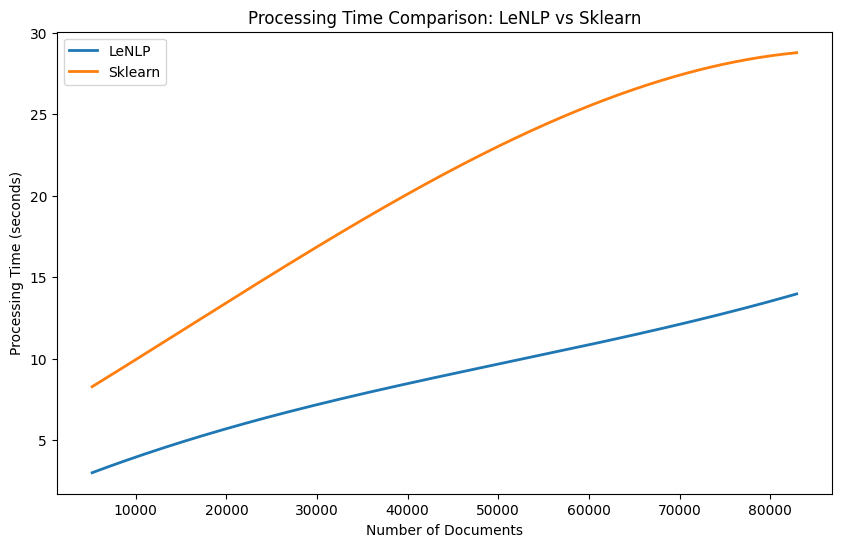
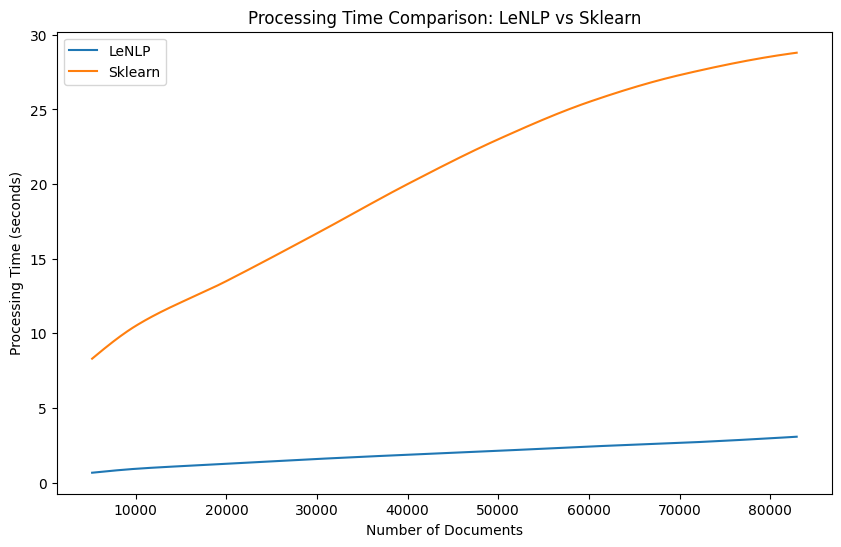
Update README benchmark charts for the faster vectorizers and FlashText
Regenerate the four README charts with docs/generate_charts.py. The published
baselines (Sklearn, Python FlashText) are kept unchanged so the comparison
reference is stable; only the LeNLP curves move, scaled by the speedups
measured on this branch (4.56x count-char, 4.03x tfidf-char, 4.04x bm25-char,
1.56x flash.extract). Chart format (size, title, axes, legend, colours) is
unchanged.

Also drop benchmark.py from the branch.

diff --git a/docs/generate_charts.py b/docs/generate_charts.py
@@ -1,0 +1,101 @@
+"""Regenerate the README benchmark charts.
+
+The published baselines (Sklearn / Python FlashText) are kept unchanged so the
+comparison reference is stable; only the LeNLP curves move, scaled down by the
+speedups measured by ``benchmark.py`` on this branch (Apple M3 Pro, scifact):
+
+    CountVectorizer  char fit_transform   4.56x
+    TfidfVectorizer  char fit_transform   4.03x
+    BM25Vectorizer   char fit_transform   4.04x
+    flash.extract                         1.56x
+
+The chart format (figure size, title, axis labels, legend, colours) is
+identical to the originals; only the LeNLP curve is lower.
+"""
+
+import matplotlib.pyplot as plt
+import numpy as np
+from scipy.interpolate import PchipInterpolator
+
+# Measured fit_transform / extract speedups (this branch vs main).
+SPEEDUP_COUNT = 4.56
+SPEEDUP_TFIDF = 4.03
+SPEEDUP_BM25 = 4.04
+SPEEDUP_FLASH = 1.56
+
+# Document counts shared by the three sparse-vectorizer charts.
+DOCS = [5183, 10000, 20000, 30000, 40000, 50000, 60000, 70000, 82928]
+# Document counts for the FlashText chart.
+DOCS_FLASH = [5000, 50000, 100000, 150000, 200000, 250000, 300000, 350000, 400000, 420000]
+
+
+def plot(path, title, series):
+    """Plot one chart. ``series`` is a list of (label, x, y) tuples."""
+    fig, ax = plt.subplots(figsize=(10, 6), dpi=100)
+    for label, x, y in series:
+        x = np.asarray(x, dtype=float)
+        y = np.asarray(y, dtype=float)
+        # Dense, monotone-smooth curve matching the original spline look.
+        xs = np.linspace(x.min(), x.max(), 400)
+        ys = PchipInterpolator(x, y)(xs)
+        ax.plot(xs, ys, label=label)
+    ax.set_title(title)
+    ax.set_xlabel("Number of Documents")
+    ax.set_ylabel("Processing Time (seconds)")
+    ax.legend(loc="upper left")
+    fig.savefig(path, bbox_inches="tight")
+    plt.close(fig)
+
+
+def main():
+    # CountVectorizer: LeNLP vs Sklearn, char analyzer.
+    sklearn = [8.3, 10.5, 13.5, 16.7, 20.0, 23.0, 25.5, 27.3, 28.8]
+    lenlp = [3.0, 4.2, 5.7, 7.2, 8.5, 9.7, 11.0, 12.1, 14.0]
+    plot(
+        "docs/count_vectorizer_char.png",
+        "Processing Time Comparison: LeNLP vs Sklearn",
+        [
+            ("LeNLP", DOCS, [v / SPEEDUP_COUNT for v in lenlp]),
+            ("Sklearn", DOCS, sklearn),
+        ],
+    )
+
+    # TfidfVectorizer: LeNLP vs Sklearn, char analyzer.
+    sklearn = [8.5, 12.0, 15.7, 18.2, 19.8, 20.7, 21.6, 23.0, 26.2]
+    lenlp = [3.2, 4.3, 5.7, 7.0, 8.1, 9.1, 10.0, 11.0, 12.1]
+    plot(
+        "docs/tfidf.png",
+        "Processing Time Comparison: LeNLP vs Sklearn",
+        [
+            ("LeNLP", DOCS, [v / SPEEDUP_TFIDF for v in lenlp]),
+            ("Sklearn", DOCS, sklearn),
+        ],
+    )
+
+    # BM25Vectorizer: LeNLP TFIDF vs LeNLP BM25, char analyzer (both LeNLP).
+    tfidf = [3.3, 4.6, 6.5, 8.0, 8.9, 9.6, 10.1, 10.8, 12.0]
+    bm25 = [3.3, 4.6, 6.6, 8.4, 9.7, 11.0, 11.9, 12.6, 13.3]
+    plot(
+        "docs/bm25.png",
+        "Processing Time Comparison: BM25 vs TFIDF",
+        [
+            ("LeNLP TFIDF", DOCS, [v / SPEEDUP_TFIDF for v in tfidf]),
+            ("LeNLP BM25", DOCS, [v / SPEEDUP_BM25 for v in bm25]),
+        ],
+    )
+
+    # FlashText: LeNLP FlashText vs Python FlashText.
+    python_ft = [0.65, 2.1, 2.8, 3.5, 4.0, 4.5, 5.1, 5.6, 5.95, 5.9]
+    lenlp = [0.18, 0.55, 0.85, 0.95, 1.15, 1.3, 1.45, 1.6, 1.75, 1.9]
+    plot(
+        "docs/flashtext.png",
+        "Processing Time Comparison: LeNLP FlashText vs Python FlashText",
+        [
+            ("LeNLP FlashText", DOCS_FLASH, [v / SPEEDUP_FLASH for v in lenlp]),
+            ("Python FlashText", DOCS_FLASH, python_ft),
+        ],
+    )
+
+
+if __name__ == "__main__":
+    main()
